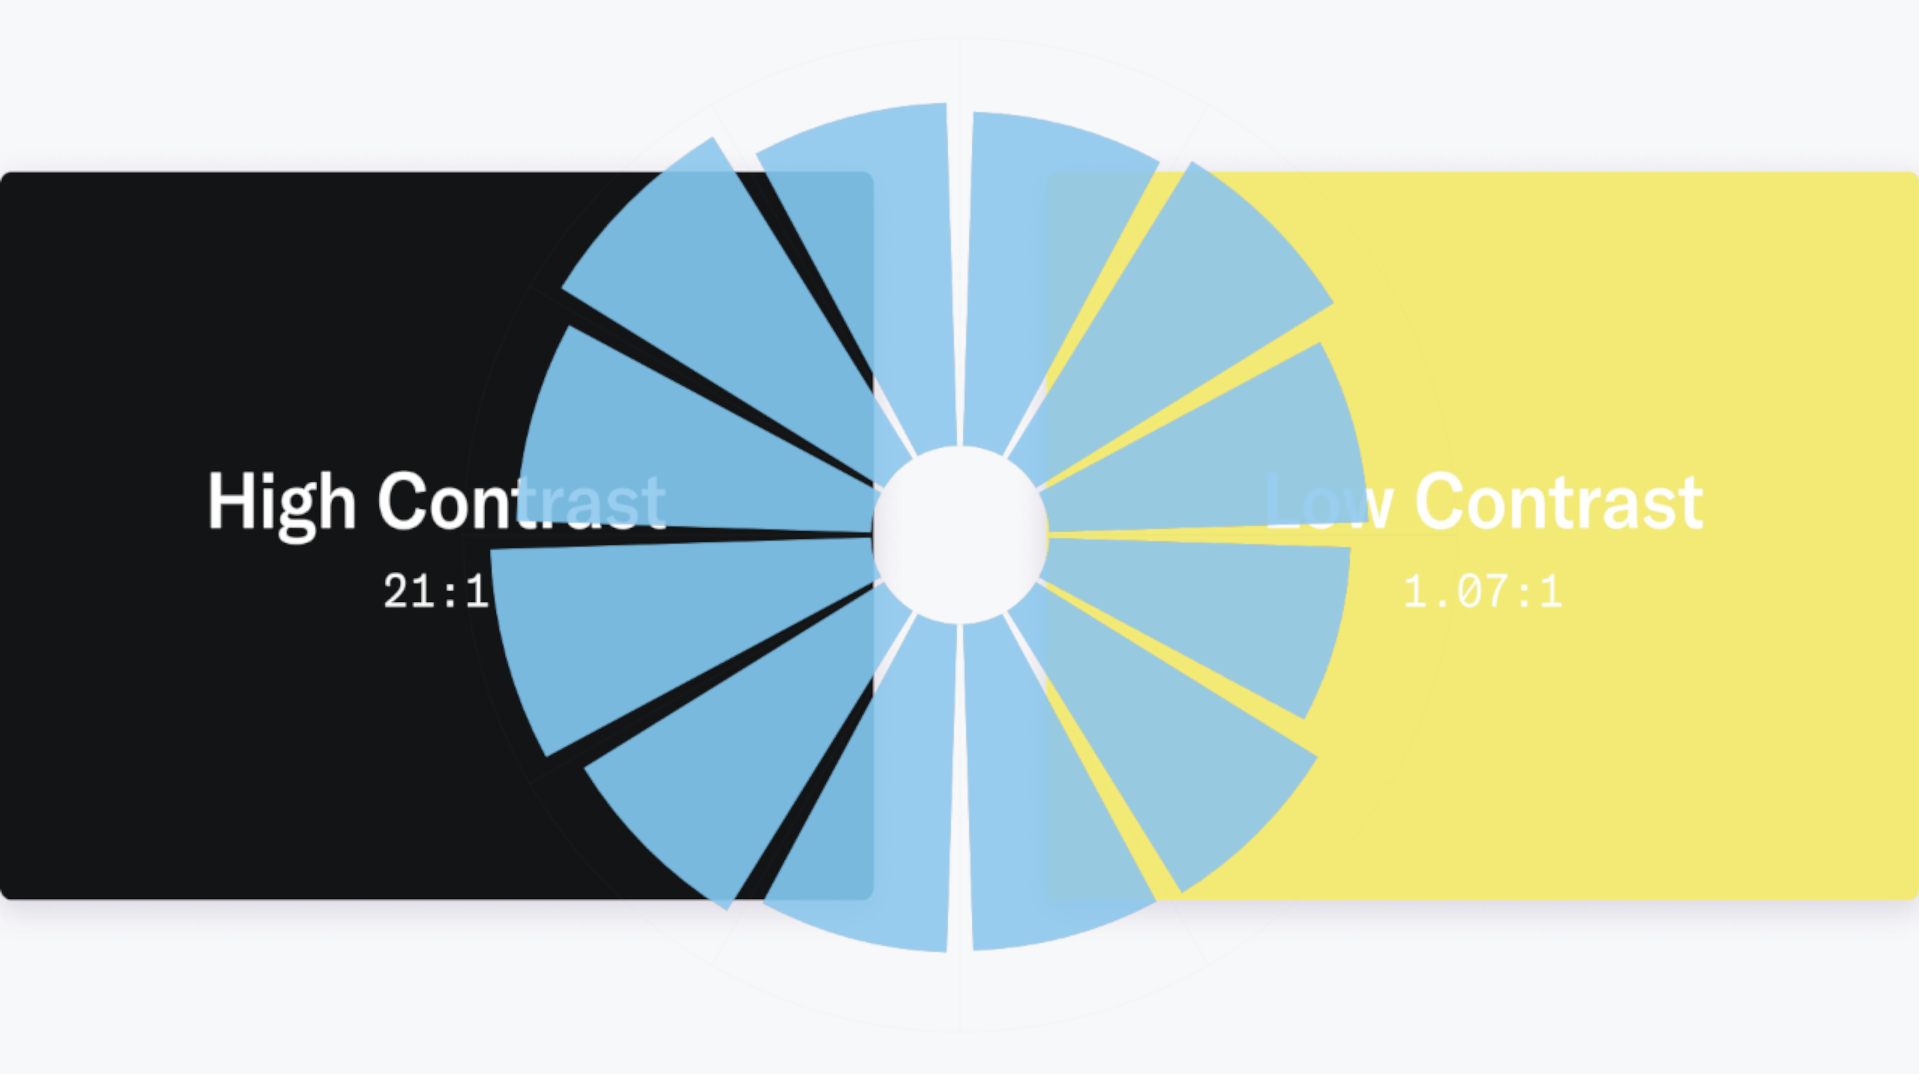
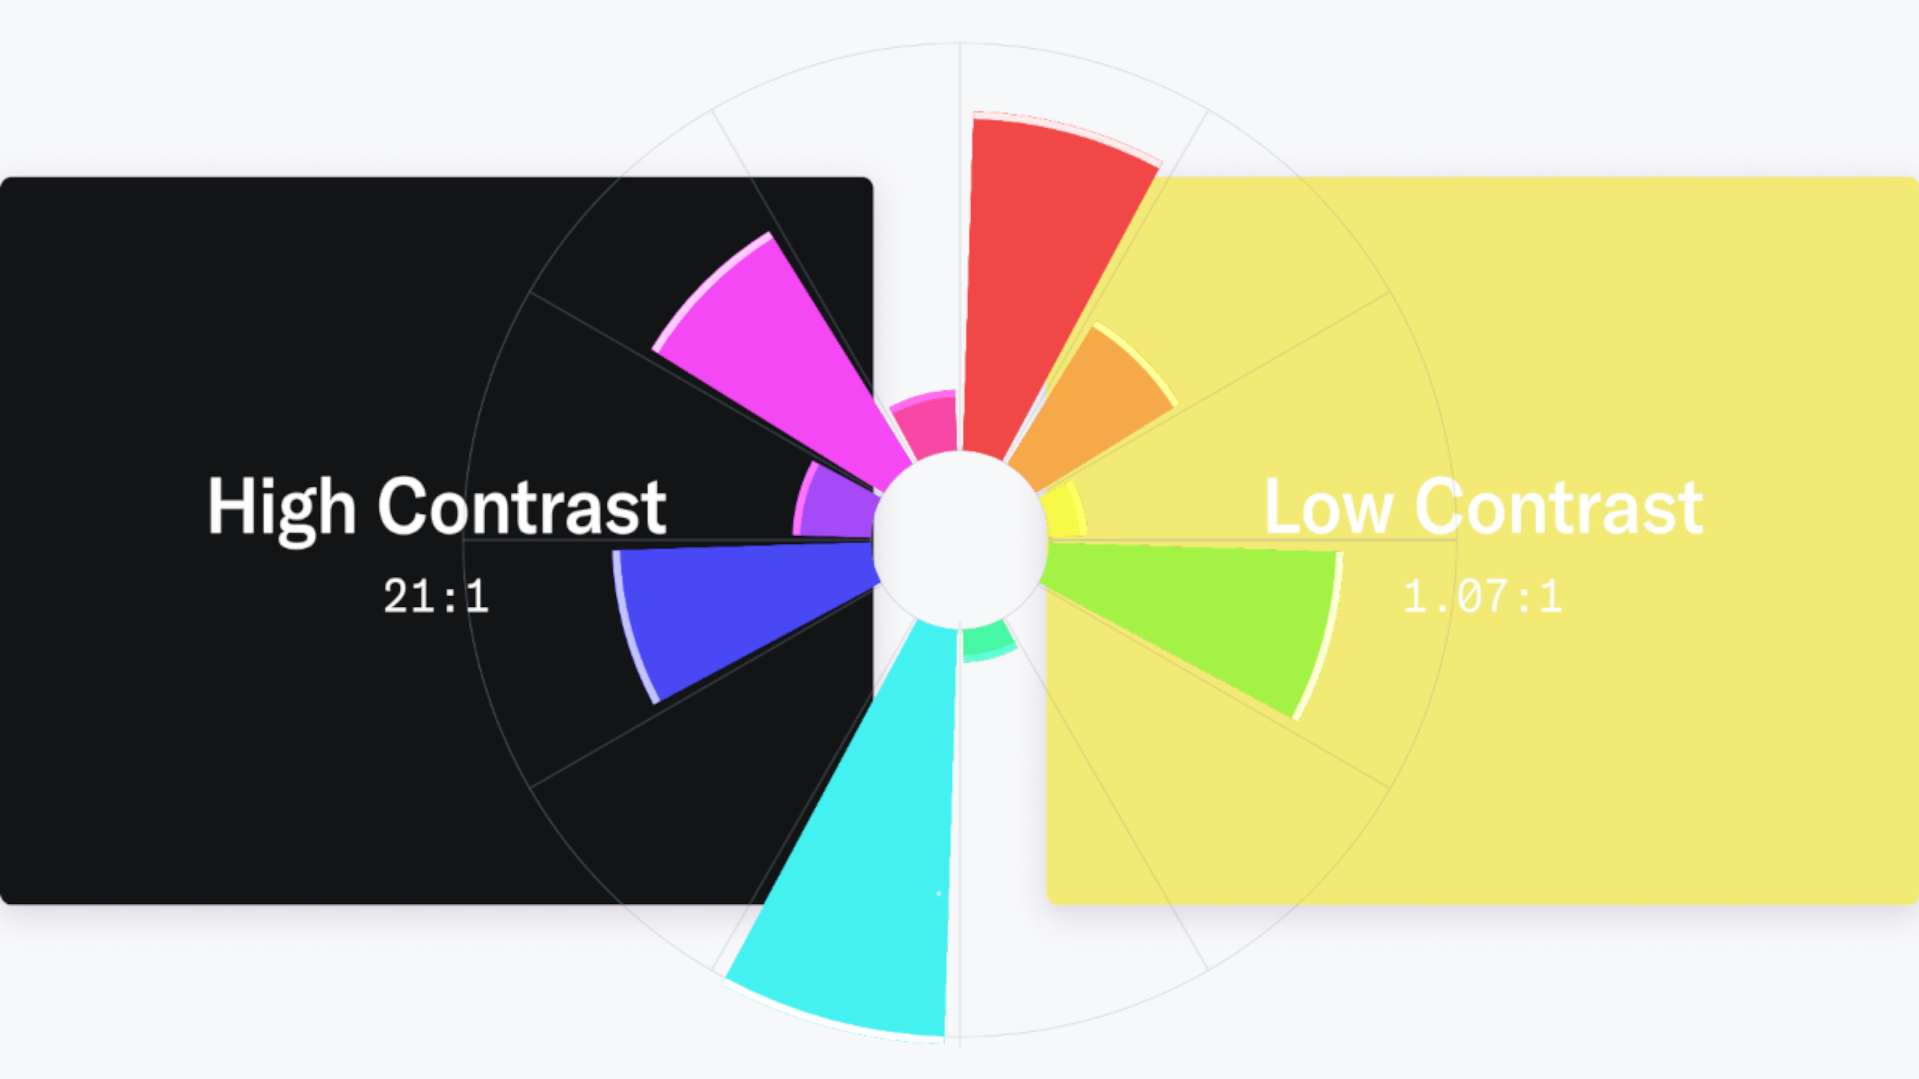
Fix credits again

Changed region(s): [[0.0, 0.0922, 1.0, 0.9832], [0.7686, 0.5223, 0.7994, 0.5531], [0.7379, 0.5531, 0.7686, 0.5838]]

diff --git a/static/js/visualizers/fractal_torus_webgl.js b/static/js/visualizers/fractal_torus_webgl.js
@@ -3,8 +3,6 @@
 // Credits:
 // - Original/adapted from: "Fractal Toras Tunnel" by netgrind (2017-05-16)
 //   https://www.shadertoy.com/view/ld2yDD
-// - Inspired by: "Disco tunnel" by WAHa_06x36 (2018-05-08)
-//   https://www.shadertoy.com/view/XstfzB
 // Two-pass: BufferA (feedback + audio row) -> Image (raymarch).
 // Overlay-friendly: no opaque page background; final alpha derived from luminance.
 

diff --git a/static/js/visualizers/tunnel_webgl.js b/static/js/visualizers/tunnel_webgl.js
@@ -1,5 +1,8 @@
 // static/js/visualizers/tunnel_webgl.js
 // Tunnel / Warp Speed (WebGL) -- BufferA + Image pipeline with audio row feed.
+// Credits:
+// - Inspired by: "Disco tunnel" by WAHa_06x36 (2018-05-08)
+//   https://www.shadertoy.com/view/XstfzB
 
 import { dtFromFrameOrNow, tFromFrameOrSelf } from "./timebase.js";
 

diff --git a/README.md b/README.md
@@ -108,7 +108,7 @@ Visualizers currently using it: `static/js/visualizers/feedback_webgl.js`, `stat
 ## Shader credits / attributions
 - Fractal Torus Tunnel (WebGL): adapted from Shadertoy shader "Fractal Toras Tunnel"
   Created by netgrind (2017-05-16) https://www.shadertoy.com/view/ld2yDD
-  Tunnel / Warp Speed inspired by Shadertoy shader "Disco tunnel"
+- Tunnel / Warp Speed (WebGL): inspired by Shadertoy shader "Disco tunnel"
   Created by WAHa_06x36 (2018-05-08) https://www.shadertoy.com/view/XstfzB
 
 
